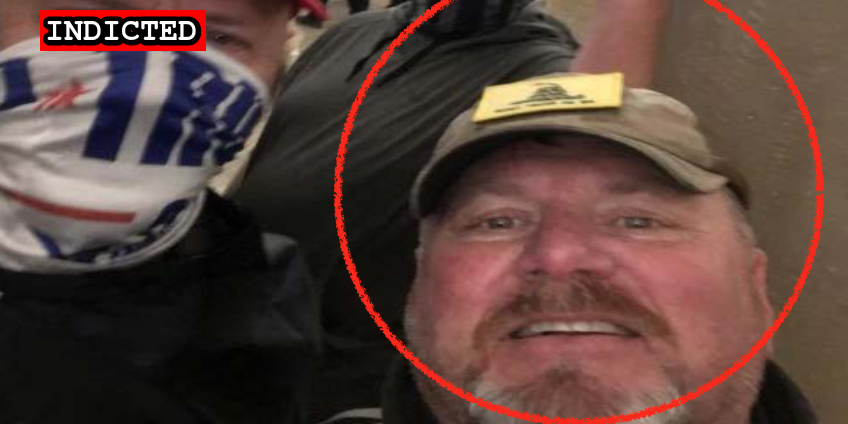
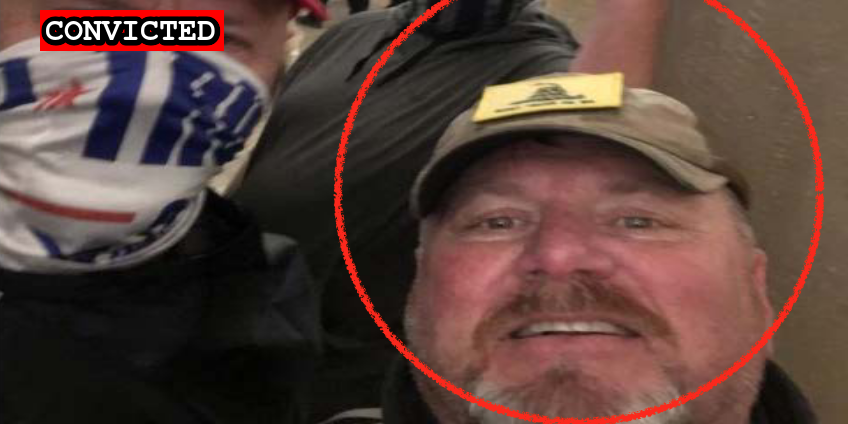
New pleas

Changed region(s): [[0.0307, 0.0, 0.2759, 0.1226]]

diff --git a/docs/_suspects/jeffrey-witcher.md b/docs/_suspects/jeffrey-witcher.md
@@ -4,16 +4,16 @@ lastName: Witcher
 hashtag: JeffreyWitcher
 aka:
 residence: Texas
-status: Indicted
+status: Convicted
 date: 2021-02-24
 charged: 2021-02-24
 indicted: 2021-03-19
-convicted:
+convicted: 2021-10-20
 sentenced:
 dismissed:
 deceased:
-plea_hearing:
-sentencing:
+plea_hearing: 2021-10-20
+sentencing: 2022-02-04
 age: 58
 occupation: Veteran, U.S. Marine Corps
 affiliations:
@@ -25,7 +25,7 @@ courtroom:
 courthouse:
 raid:
 perpwalk:
-quote: 'We’re in the rotunda. We’re in the rotunda. Our house! Our house!'
+quote: "We’re in the rotunda. We’re in the rotunda. Our house! Our house!"
 title: Jeffrey Witcher charged on Februrary 24, 2021
 description: Click for latest case details. Suspects innocent until proven guilty.
 author: seditiontrack
@@ -34,8 +34,13 @@ published: true
 caseNumber:
 videos:
 charges:
+  - code: 18 USC § 1752(a)(1)
+    title: Entering a restricted building or grounds
+    url: https://www.law.cornell.edu/uscode/text/18/1752
+    felony: false
 sentence:
 ---
+
 - [News Report](https://www.msn.com/en-us/news/us/capitol-rioters-posted-video-claiming-they-crashed-the-white-house/ar-BB1ezT8G)
 - [Statement of Facts](https://www.justice.gov/usao-dc/case-multi-defendant/file/1378401/download)
 - [Indictment](https://www.justice.gov/usao-dc/case-multi-defendant/file/1378236/download)

diff --git a/docs/_suspects/richard-barnard.md b/docs/_suspects/richard-barnard.md
@@ -4,16 +4,16 @@ lastName: Barnard
 hashtag: RichardBarnard
 aka:
 residence: Texas
-status: Indicted
+status: Convicted
 date: 2021-02-24
 charged: 2021-02-24
 indicted: 2021-03-19
-convicted:
+convicted: 2021-10-20
 sentenced:
 dismissed:
 deceased:
-plea_hearing:
-sentencing:
+plea_hearing: 2021-10-20
+sentencing: 2022-02-04
 age: 55
 occupation: Veteran, U.S. Marine Corps
 affiliations:
@@ -34,8 +34,13 @@ published: true
 caseNumber: 1:21-cr-235
 videos:
 charges:
+  - code: 18 USC § 5104(e)(2)(G)
+    title: Parading, demonstrating or picketing in a Capitol building
+    url: https://www.law.cornell.edu/uscode/text/40/5104
+    felony: false
 sentence:
 ---
+
 - [News Report](https://www.dailymail.co.uk/news/article-9360743/Two-men-charged-Capitol-riot-posted-video-claiming-crashed-White-House.html)
 - [Statement of Facts](https://www.justice.gov/usao-dc/case-multi-defendant/file/1378401/download)
 - [Indictment](https://www.justice.gov/usao-dc/case-multi-defendant/file/1378236/download)
